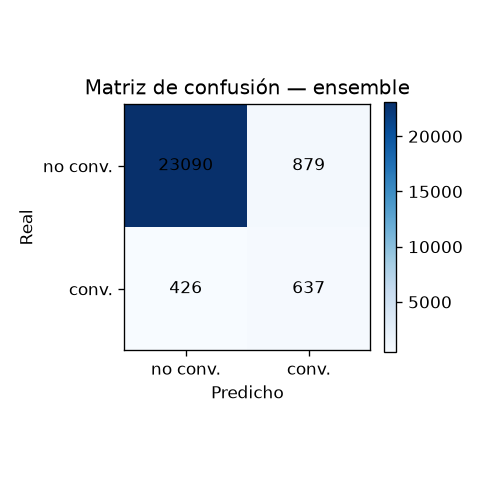
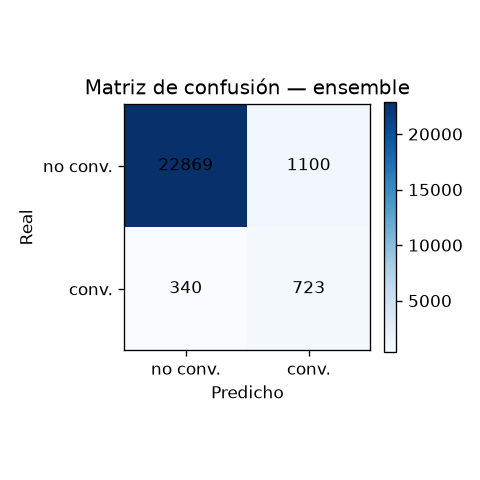
fix: escala calibrada del ensamble (stacking balanceado)
El stacking sin balanceo comprimía p_final hacia la tasa base (~4%), dejando
sesiones de alta intención en la banda "frío" pese a que los 3 modelos base
daban ~0.9. Con class_weight='balanced' el p_final recupera la escala esperada
por §5.5 (una sesión fuerte alcanza "caliente"), sin afectar el AUC.

Ensemble: F1=0.501 AUC=0.9453, umbral calibrado=0.891.

diff --git a/src/models/ensemble.py b/src/models/ensemble.py
@@ -80,7 +80,10 @@ def fit_ensemble(val_probs: dict[str, np.ndarray], y_val: np.ndarray) -> HybridE
     """Ajusta el stacking en validación; fallback a promedio si algo falla."""
     x = _stack(val_probs)
     try:
-        lr = LogisticRegression(max_iter=1000, random_state=SEED)
+        # class_weight='balanced': evita que el stacking comprima p_final hacia
+        # la tasa base (~4%); así una sesión de alta intención alcanza la banda
+        # "caliente" (§5.5) en vez de quedar siempre en "frío".
+        lr = LogisticRegression(max_iter=1000, random_state=SEED, class_weight="balanced")
         lr.fit(x, y_val)
         ens = HybridEnsemble(
             method="stacking",